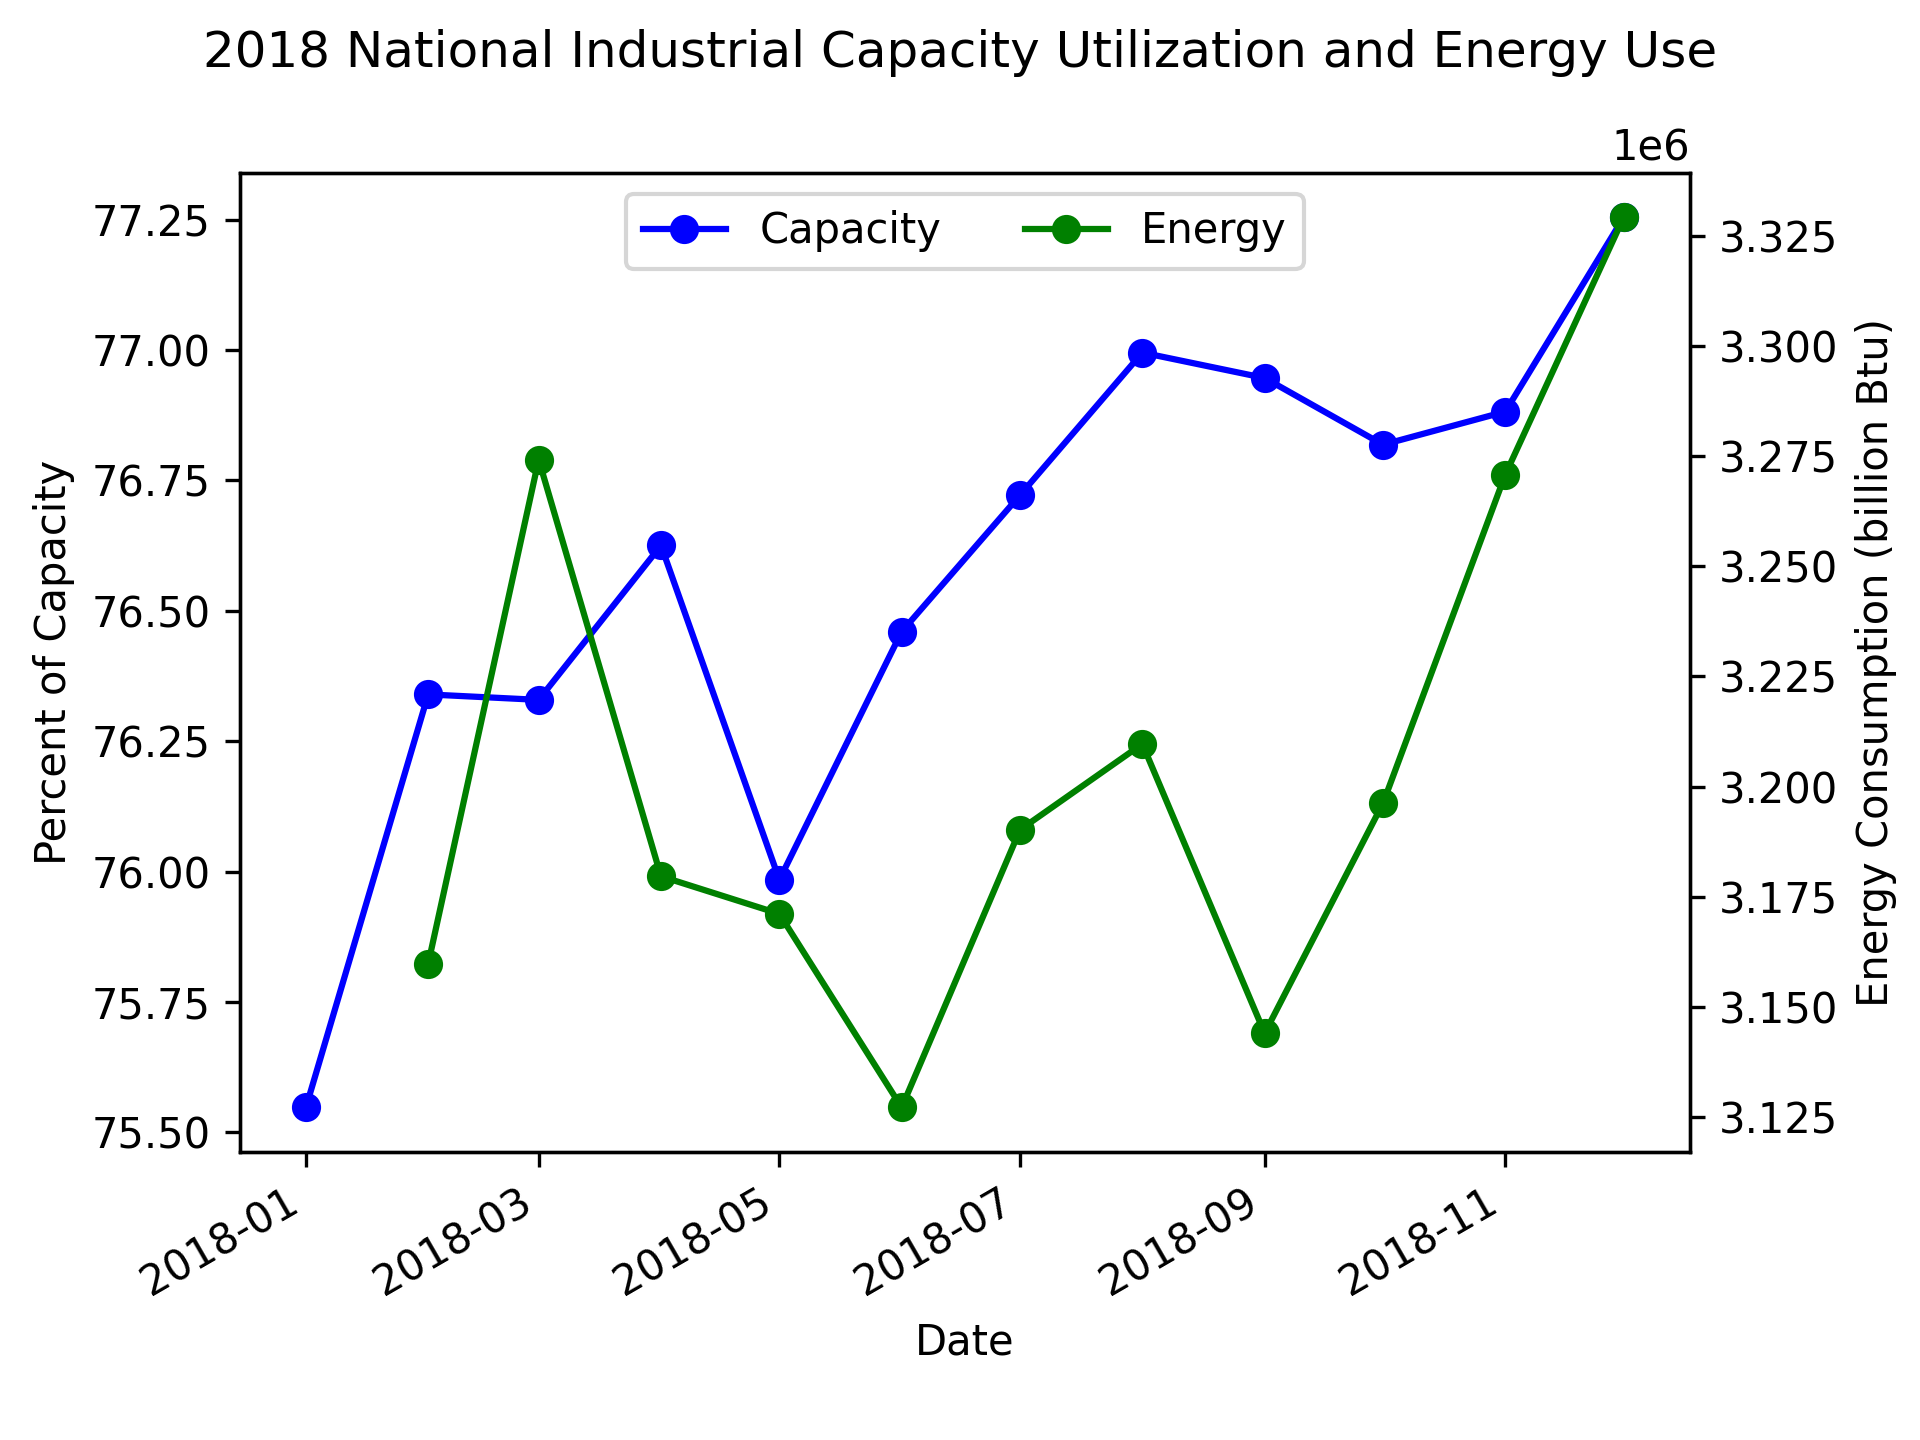
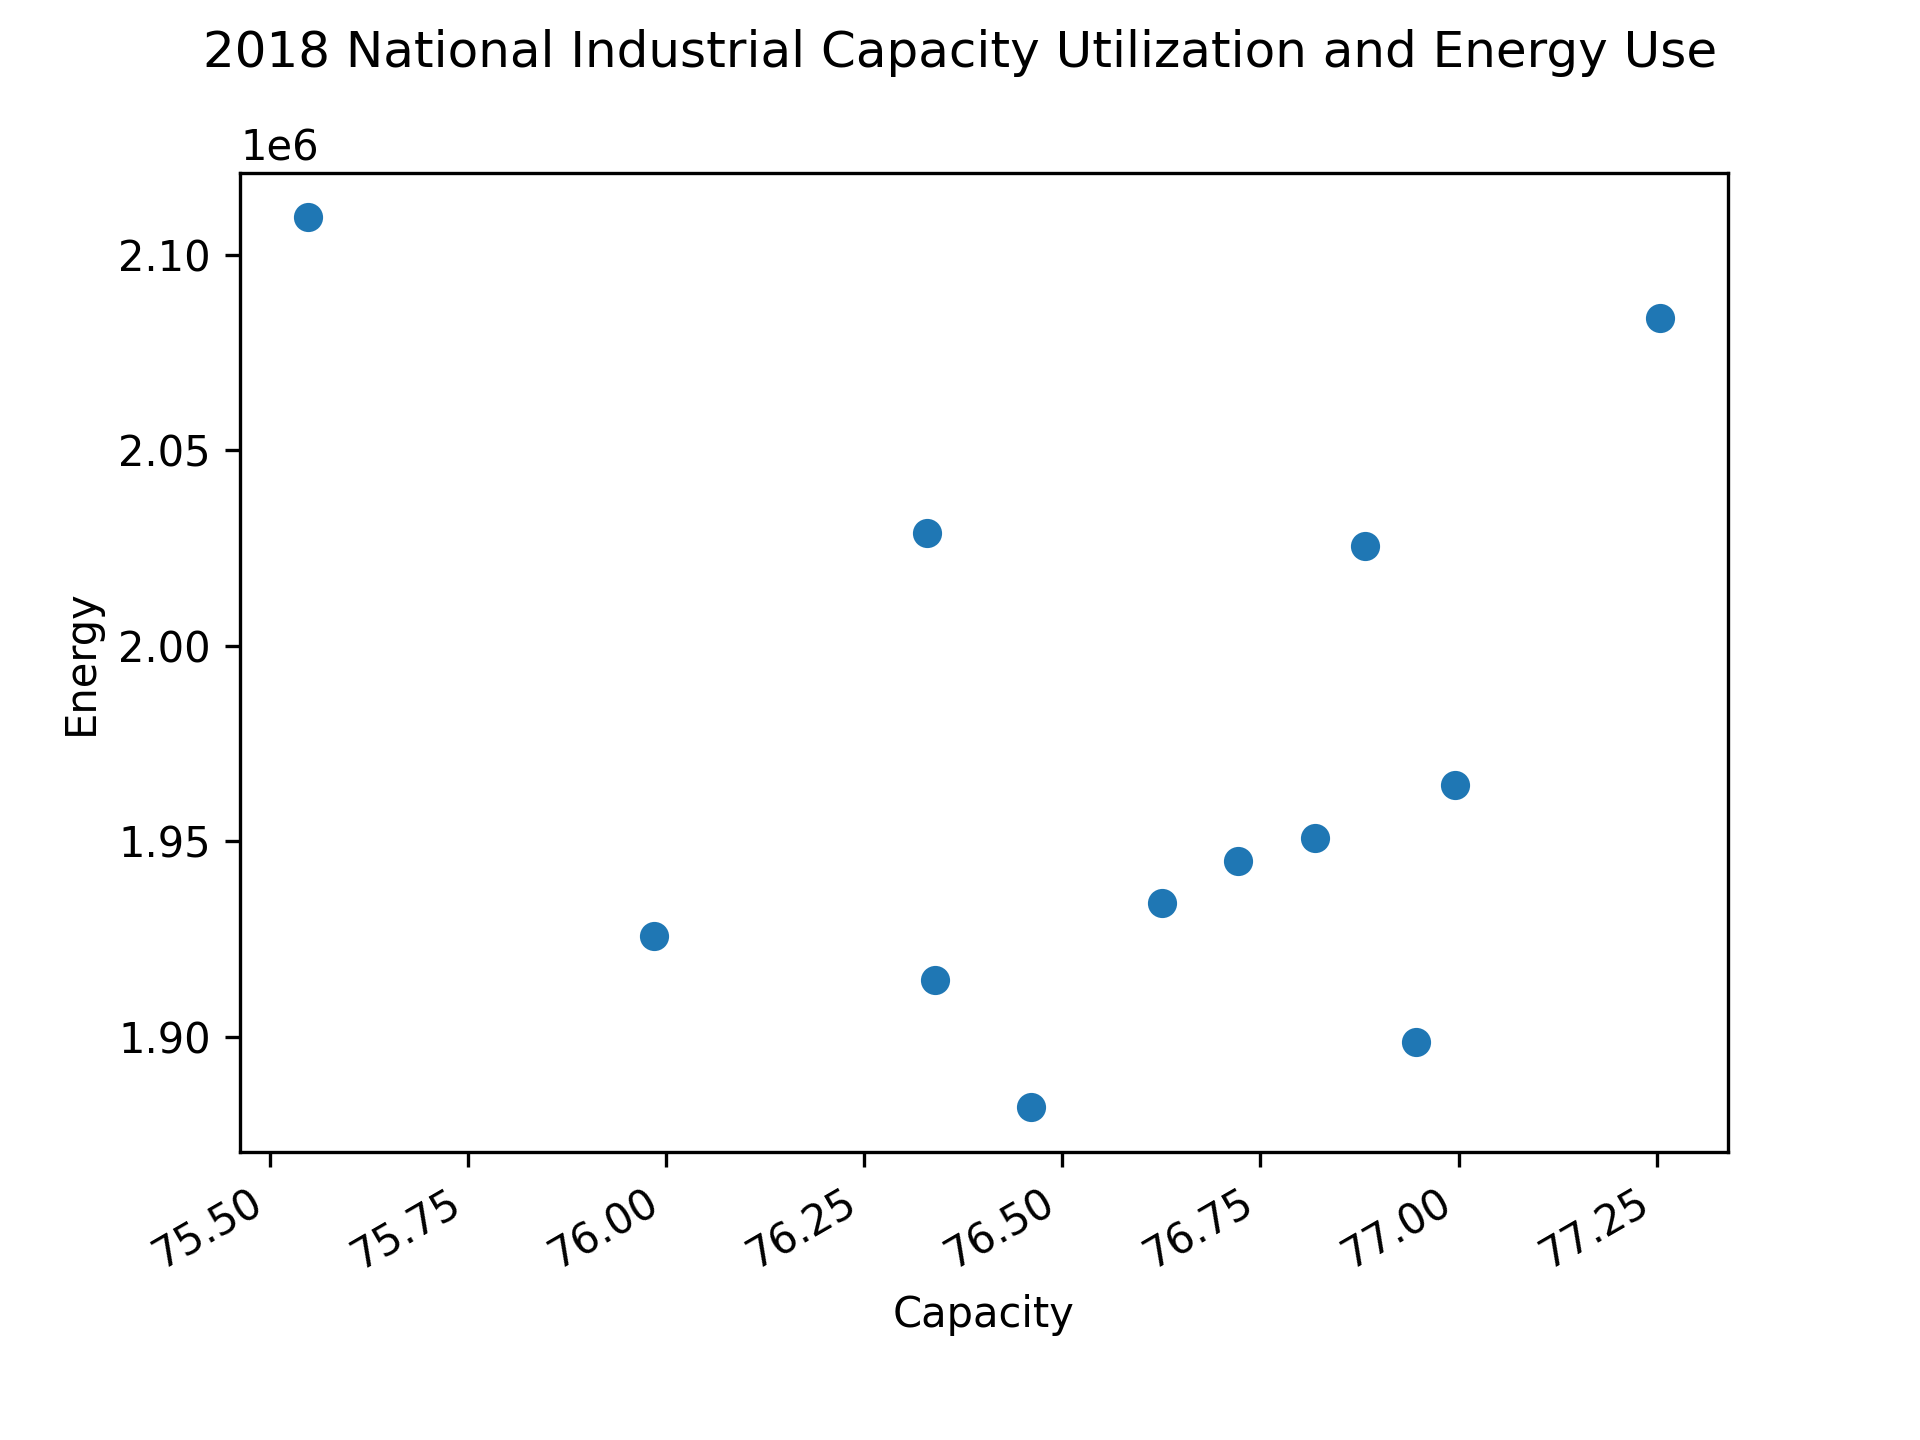
update

diff --git a/ind_main.py b/ind_main.py
@@ -3,6 +3,7 @@ import matplotlib
 import matplotlib.pyplot as plt
 import ind_output as ind
 from datetime import date
+import matplotlib.ticker as ticker
 
 def process(naics):
     #Gets data and organizes it. Takes average of capacity data and sum of emissions. Also gets all NAICS codes from FRED and EPA.
@@ -40,9 +41,10 @@ def energy_process(category):
     #Finds percentage of total energy not accounted for by sales and gas data
     for year in sum.index:
         for state in states:
-            percent.loc[year, state] = 1 - (sum.loc[year, state] / energy.loc[str(year), state])
+            percent.loc[year, state] = sum.loc[year, state] / energy.loc[str(year), state]
+    percent_energy = 1 - percent
 
-    monthly_energy = sum.multiply(percent) / 12 #Average total energy not in sales and gas per month
+    monthly_energy = energy.multiply(percent_energy) / 12 #Average total energy not in sales and gas per month
     monthly = monthly_sales.add(monthly_gas, fill_value = 0)
     #Gets total monthly energy
     for dates in monthly.index:
@@ -52,7 +54,7 @@ def energy_process(category):
     monthly = monthly.drop(monthly.columns[0], axis = 1)
     monthly = monthly.sum(axis = 1) #Combines all states to get national total
 
-    return monthly
+    return monthly, percent
 
 def plotData(naics, category):
 
@@ -62,8 +64,11 @@ def plotData(naics, category):
     overall_cap.index = pd.to_datetime(overall_cap.index, format = '%Y%m')
     overall_cap = overall_cap.iloc[84:96] #Data for 2018
 
-    monthly_energy = energy_process(category)
-    monthly_energy = monthly_energy.iloc[0:11] #Data for 2018
+    monthly_energy, percent = energy_process(category)
+    monthly_energy = monthly_energy.iloc[0:12] #Data for 2018
+    monthly_energy = monthly_energy.sort_index()
+    percent = percent.iloc[0]
+    percent = percent.transpose()
 
     #make a figure
     plt.figure(figsize=(5,3))
@@ -89,20 +94,35 @@ def plotData(naics, category):
     fig2.autofmt_xdate()
     fig2.suptitle('2018 National Industrial Capacity Utilization and Energy Use')
 
-    ax2.plot(overall_cap.index, overall_cap.values, color = 'blue', marker = 'o', label = 'Capacity')
-    ax2.set_xlabel('Date')
-    ax2.set_ylabel('Percent of Capacity')
+    ax2.scatter(overall_cap.values,monthly_energy.values)
+    ax2.set_xlabel('Capacity')
+    ax2.set_ylabel('Energy')
 
-    ax3 = ax2.twinx()
-    ax3.plot(monthly_energy.index, monthly_energy.values, color = 'green', marker = 'o', label = 'Energy')
-    ax3.set_ylabel('Energy Consumption (billion Btu)')
-
-    h1, l1 = ax2.get_legend_handles_labels()
-    h2, l2 = ax3.get_legend_handles_labels()
-    ax2.legend(h1+h2, l1+l2, loc='upper center', ncol=2)
-
-    plt.subplots_adjust(right = .88)
     plt.savefig("Ind_cap_energy.png", dpi=300)
+
+    plt.figure(figsize=(25,3))
+    fig3, ax3 = plt.subplots()
+    fig3.suptitle('2018 Percentage of Energy Use from Electricity and Natural Gas by State')
+
+    #ax3.xaxis.set_major_locator(ticker.MultipleLocator(1))
+    ax3.bar(percent.index, percent.values)
+    ax3.set_xlabel('State')
+    ax3.set_ylabel('Percent of Total Energy')
+    plt.xticks(rotation = 90, fontsize = 6)
+
+    plt.savefig("State_sales_gas.png", dpi=300)
+
+    # ax2.plot(overall_cap.index, overall_cap.values, color = 'blue', marker = 'o', label = 'Capacity')
+    # ax2.set_xlabel('Date')
+    # ax2.set_ylabel('Percent of Capacity')
+    #
+    # ax3 = ax2.twinx()
+    # ax3.plot(monthly_energy.index, monthly_energy.values, color = 'green', marker = 'o', label = 'Energy')
+    # ax3.set_ylabel('Energy Consumption (billion Btu)')
+    #
+    # h1, l1 = ax2.get_legend_handles_labels()
+    # h2, l2 = ax3.get_legend_handles_labels()
+    # ax2.legend(h1+h2, l1+l2, loc='upper center', ncol=2)
 
 def codecheck(naics):
     #Gets all data in Fred and EPA and checks NAICS codes
